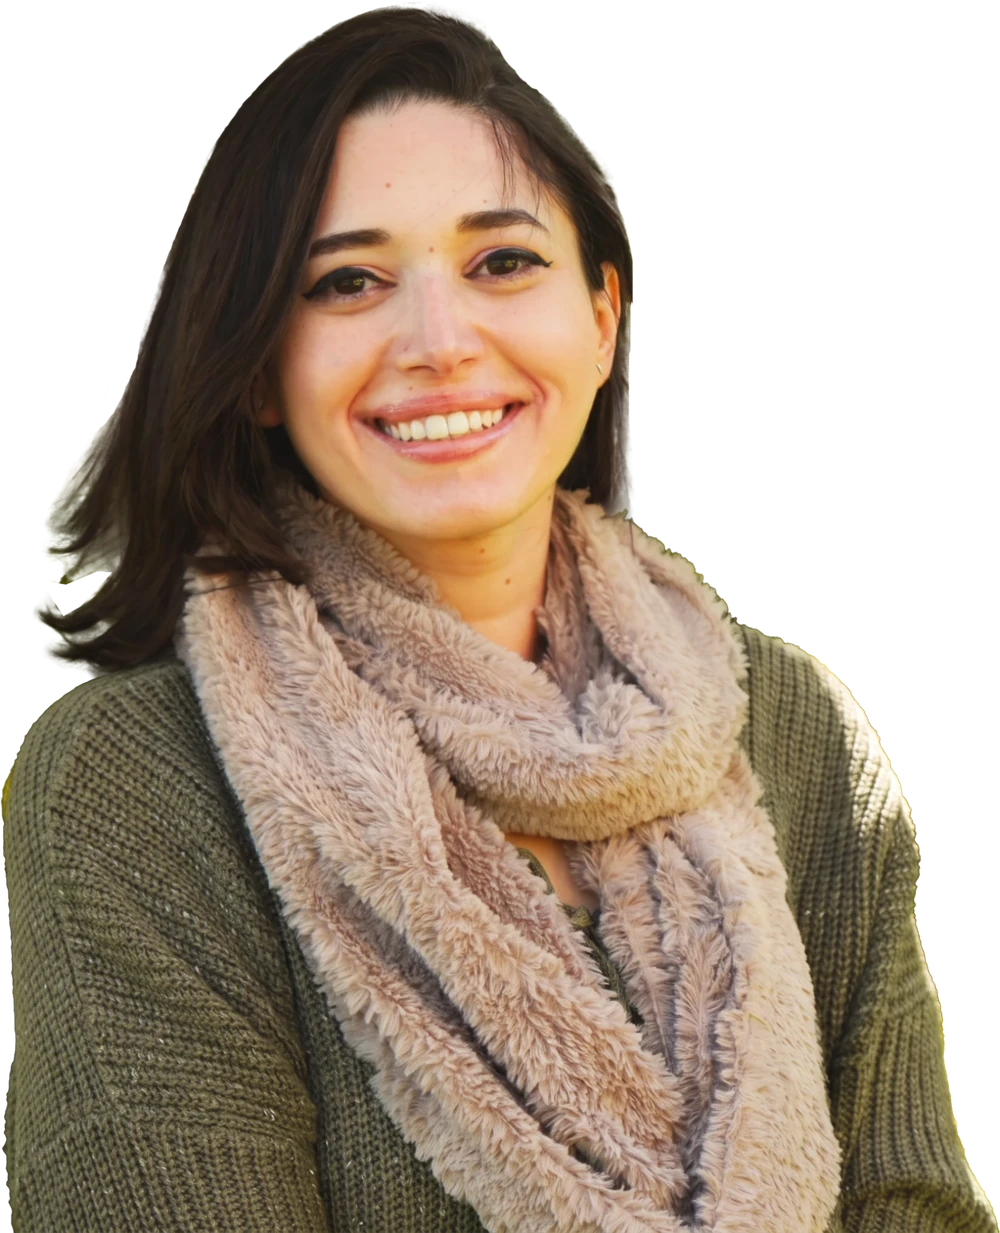
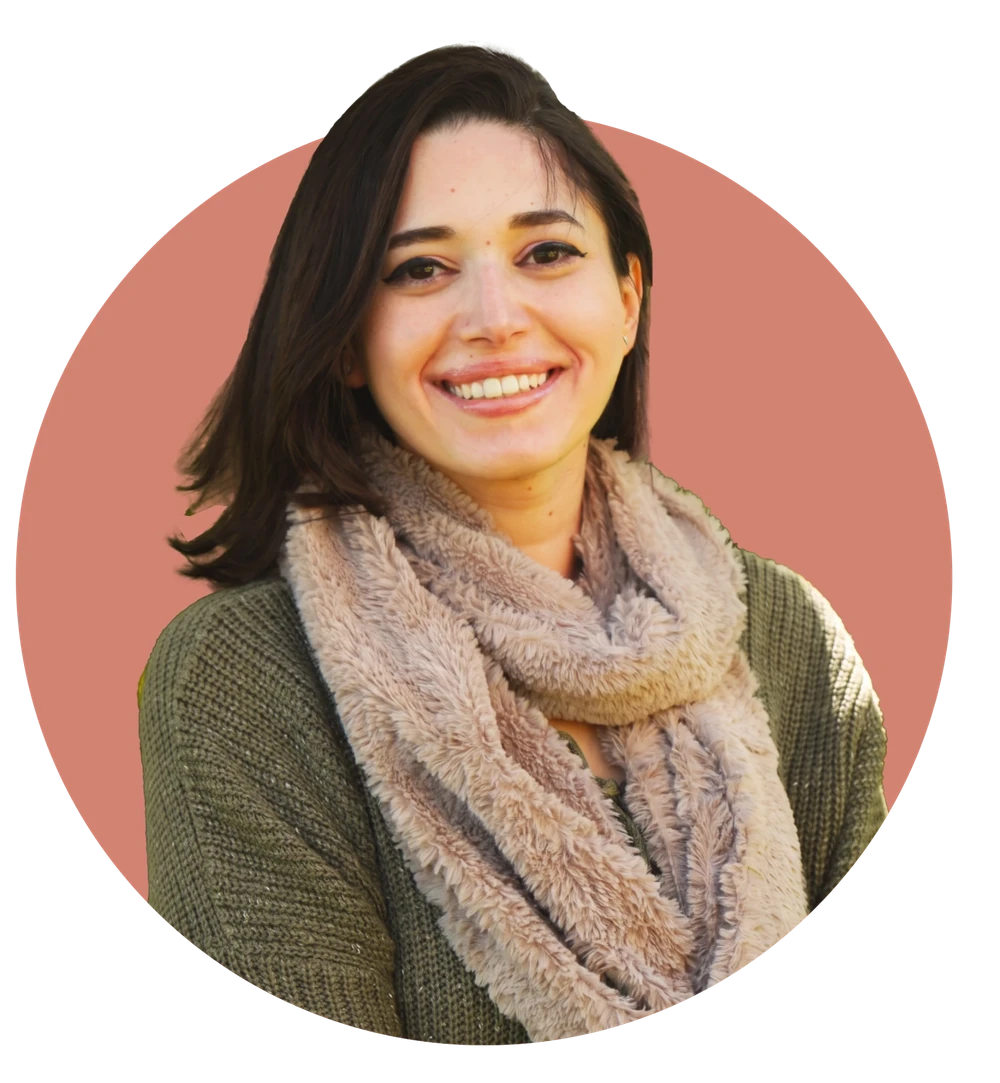
About photo: use the pre-circled photo standalone
Use Nashwa's photo that already includes its own circle, shown on its
own without an extra background circle or clip.

diff --git a/css/onepage.css b/css/onepage.css
@@ -852,12 +852,15 @@ select.contact-input option { color: #3c3c3c; }
   object-position: bottom center;
   filter: drop-shadow(0 8px 18px rgba(0,0,0,0.25));
 }
-/* Real photo variant: transparent cutout sits in the coral circle */
-.portrait-circle--photo { background: radial-gradient(circle at 50% 40%, #e08a7a 0%, var(--coral) 75%); align-items: center; }
+/* Real photo variant: the photo already has its own circle, so show it
+   standalone with no extra background circle or clipping */
+.portrait-circle--photo {
+  background: transparent; border-radius: 0; overflow: visible;
+  aspect-ratio: auto; align-items: center;
+}
 .portrait-img--photo {
-  width: 100%; height: 100%;
-  object-fit: cover;
-  object-position: center 12%;
+  width: 100%; height: auto; max-width: none;
+  object-fit: contain; object-position: center;
   filter: none;
 }
 .portrait-chips {
